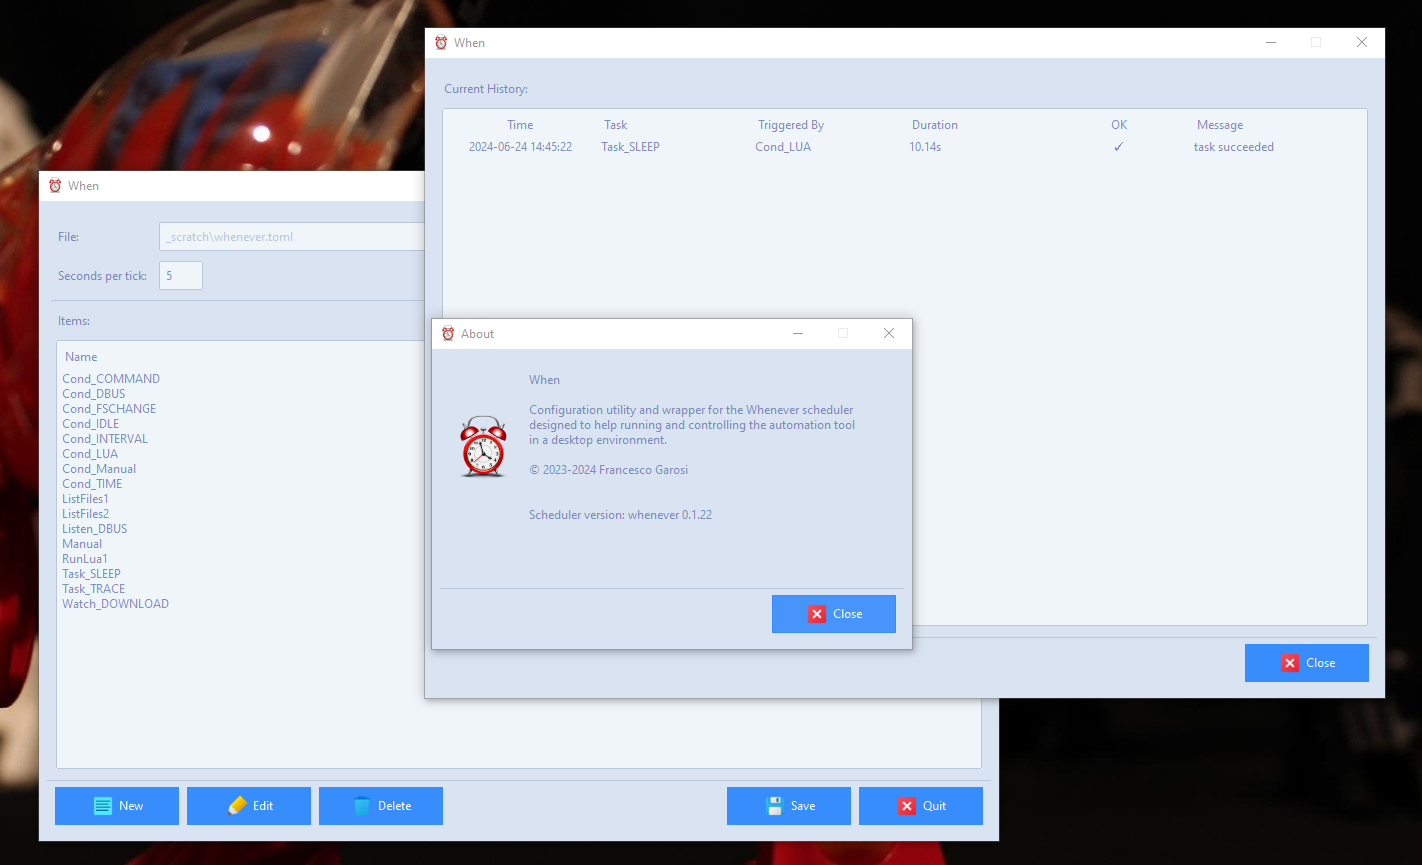
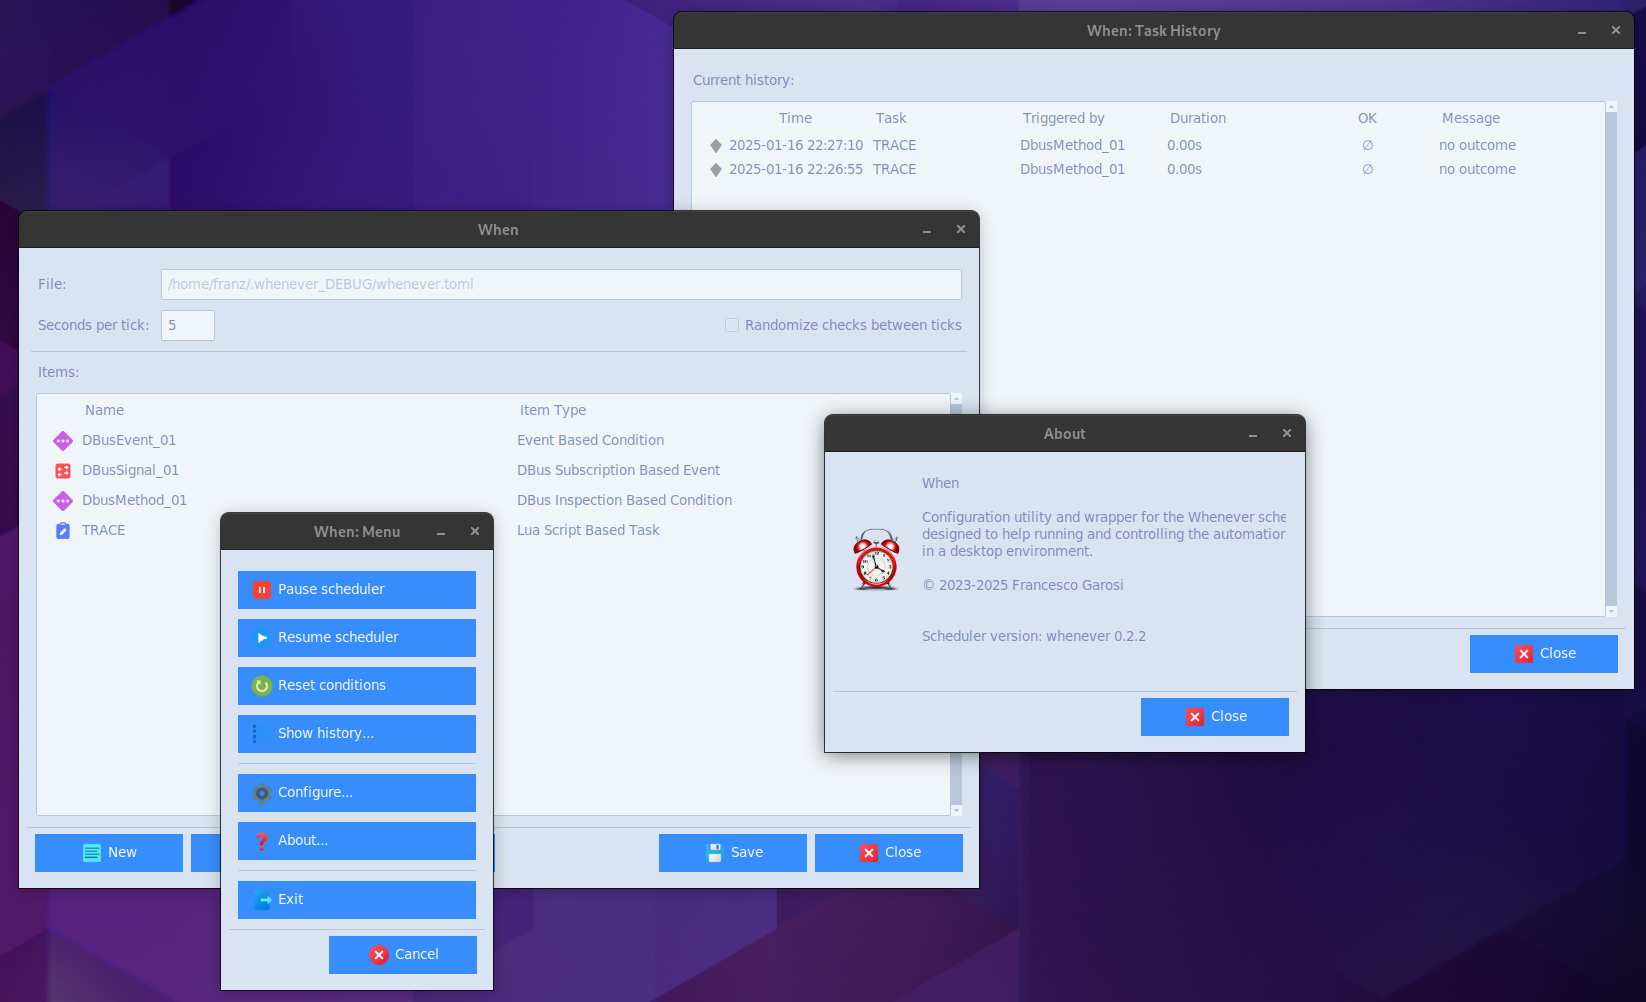
Code cleanup an documentation updates
This commit focuses on updating the documentation to reflect the availability of a menu form on Linux and on adding updated screenshots. There are also some minor code amendments (mostly spacing).

diff --git a/lib/forms/cfgform.py b/lib/forms/cfgform.py
@@ -376,7 +376,6 @@ class form_Config(ApplicationForm):
             self._updatedata()
             self._updateform()
 
-
     # modify the reaction to the quit button so that if the configuration
     # has changed the user is asked whether or not he wants to discard it
     def exit_close(self):
@@ -385,7 +384,6 @@ class form_Config(ApplicationForm):
                 return super().exit_close()
         else:
             return super().exit_close()
-
 
 
 # end.

diff --git a/lib/items/task_command.py b/lib/items/task_command.py
@@ -95,4 +95,5 @@ class CommandTask(Task):
         t = append_not_none(t, 'environment_variables', self.environment_variables)
         return t
 
+
 # end.

diff --git a/lib/forms/cond_time.py b/lib/forms/cond_time.py
@@ -311,5 +311,4 @@ class form_TimeCondition(form_Condition):
         return super()._updateform()
 
 
-
 # end.

diff --git a/lib/i18n/strings_base.py b/lib/i18n/strings_base.py
@@ -364,5 +364,4 @@ CONFIGFORM_LHD_NAME = "Name"
 CONFIGFORM_LHD_TYPE = "Item Type"
 
 
-
 # end.

diff --git a/lib/trayapp.py b/lib/trayapp.py
@@ -146,5 +146,4 @@ def main(root):
     tray.run_detached()
 
 
-
 # end.

diff --git a/support/docs/tray.md b/support/docs/tray.md
@@ -21,10 +21,17 @@ When launching the resident wrapper, the following parameters can be specified o
 
 However, it is recommended _not_ to specify a custom _APPDATA_ directory unless really needed, because by default both **When** and **whenever_tray** use this directory to locate the scheduler configuration file -- that is, the one generated by **When** in configuration mode.
 
-Note that, in order to reload the configuration, the scheduler has to be completely restarted: at the moment there is no way to achieve this in **When** if not by exiting the resident application and relaunching it.
+Note that, in order to reload the configuration, the scheduler has to be completely restarted[^2]: at the moment there is no way to achieve this in **When** if not by exiting the resident application and relaunching it.
+
+Modern linux distributions based on the Gnome desktop environment do not actually support system tray menus: in these cases **When** falls back to a menu window that is launched by _left-clicking_ the tray icon:
+
+![MenuForm](graphics/when-menu-form.png)
+
+This menu window shows exactly the same entries as the missing tray menu (plus a _Cancel_ button to hide it): clicking the buttons invokes the same tools that the corresponding menu entries would bring up.
 
 
 [`◀ Main`](main.md)
 
 
 [^1]: Unless a timeout is set, some tasks may actually never exit: in this case **When** itself will not be able to exit.
+[^2]: A version that can dynamically reload configuration is about to be released.
